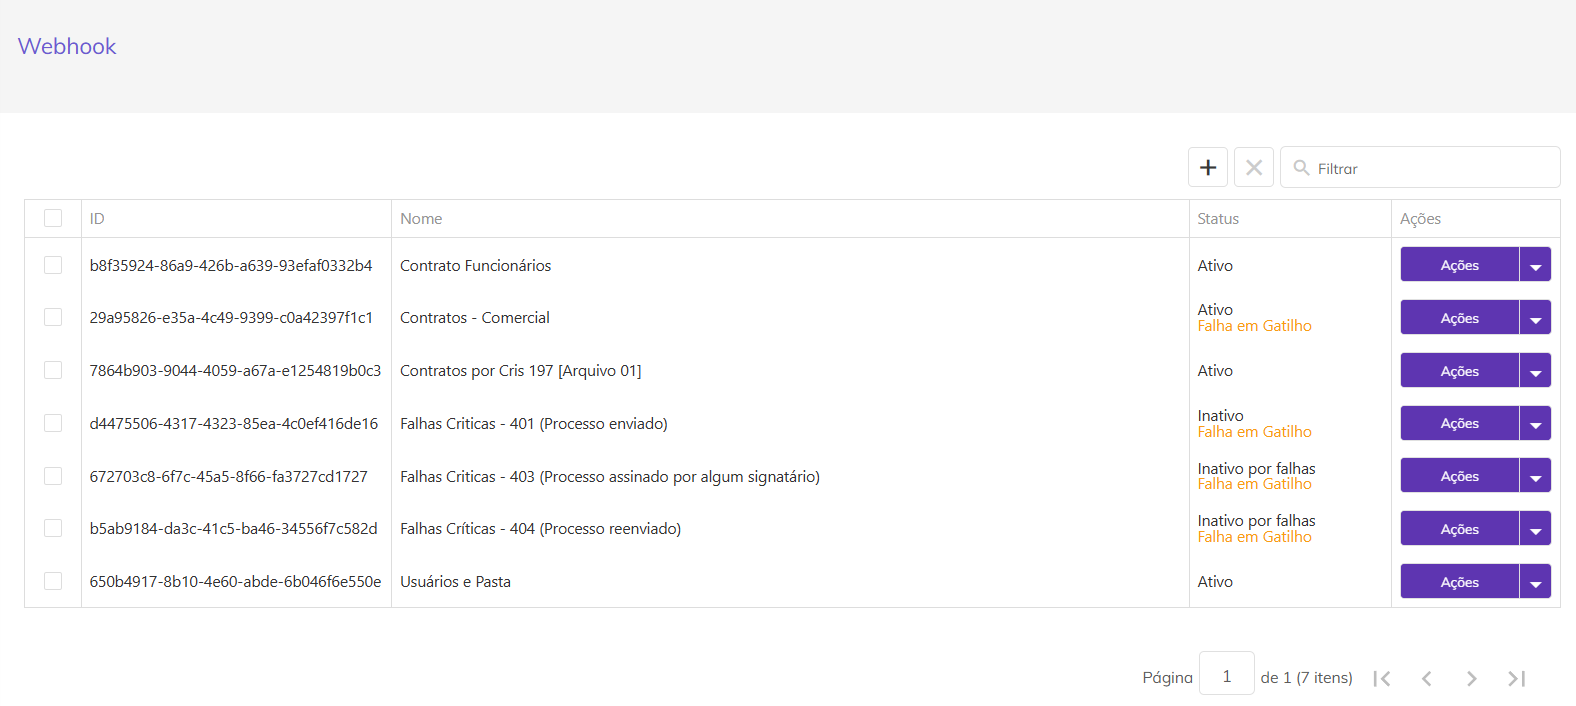
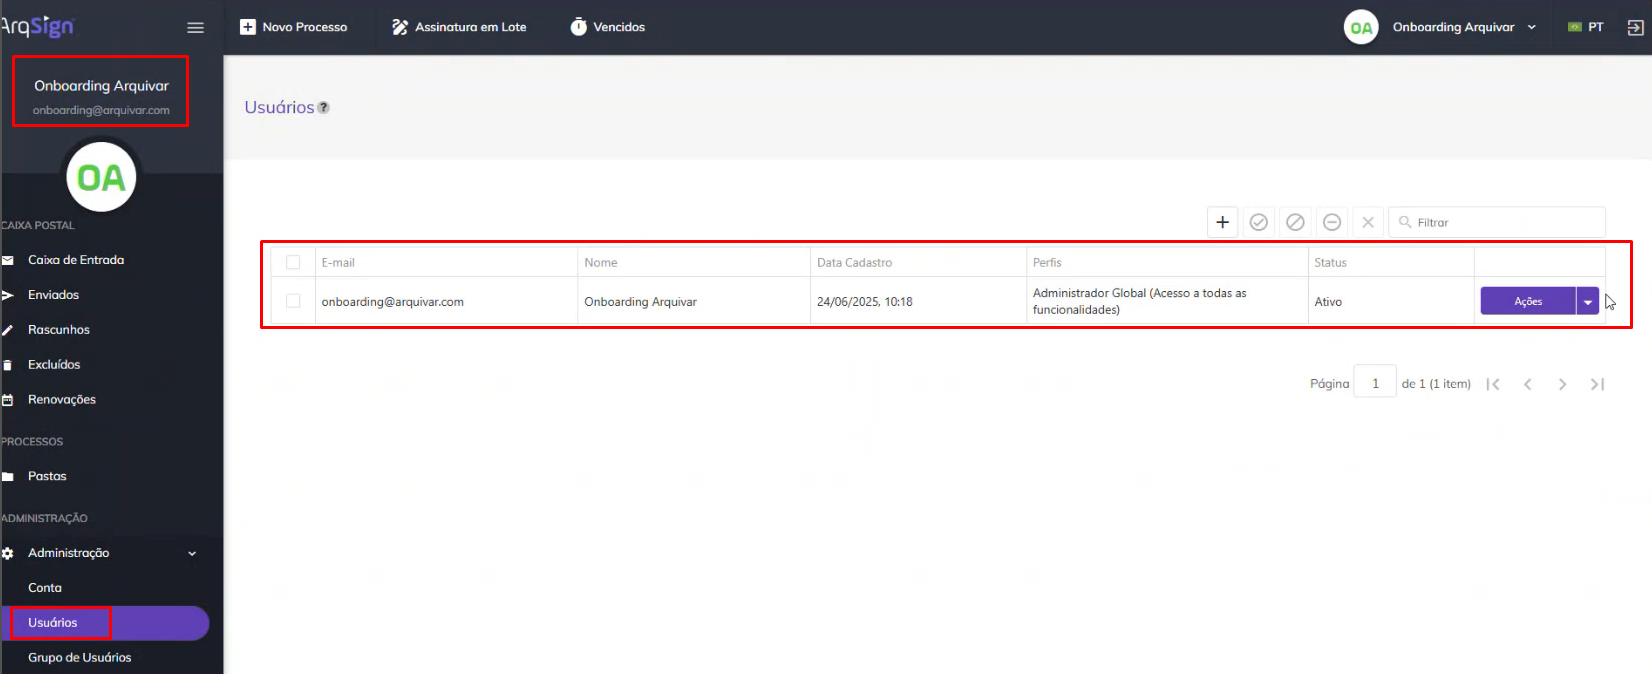
GITBOOK-849: No subject

diff --git a/arqsign/administracao-administracao/usuarios.md b/arqsign/administracao-administracao/usuarios.md
@@ -19,7 +19,15 @@ Após a inserção de um novo usuário pelo Administrador Global, o convidado re
 <figure><img src="https://manual.arquivar.com/manual-arqsign/~gitbook/image?url=https%3A%2F%2Fcontent.gitbook.com%2Fcontent%2FNkvKZtdmOiilgqExqFNO%2Fblobs%2FkC3Nj6BJOieJYyhxl3iH%2FScreenshot_10.png&#x26;width=768&#x26;dpr=4&#x26;quality=100&#x26;sign=f7b28085&#x26;sv=2" alt=""><figcaption></figcaption></figure>
 
 {% hint style="info" %}
-<mark style="color:blue;">Para que as notificações exibam o nome do cliente como remetente, informe o nome da empresa no campo “Nome” ao cadastrar o usuário. Utilize também um e-mail válido para identificação do processo e recebimento das notificações durante a tramitação do documento.</mark>
+<mark style="color:blue;">Para que as notificações exibam o nome do cliente como remetente, é necessário informar o nome da empresa no campo “Nome” ao cadastrar o usuário.</mark>&#x20;
+
+<p align="center"><img src="../../.gitbook/assets/image (388).png" alt="" data-size="original"></p>
+
+
+
+
+
+<mark style="color:blue;">Utilize também um e-mail válido para identificação do processo e recebimento das notificações durante a tramitação do documento.</mark>
 
 <p align="center"><img src="https://manual.arquivar.com/guia-do-cliente/~gitbook/image?url=https%3A%2F%2F1023047207-files.gitbook.io%2F%7E%2Ffiles%2Fv0%2Fb%2Fgitbook-x-prod.appspot.com%2Fo%2Fspaces%252FtM1xGMYoU6wC7tnUUXEo%252Fuploads%252FitPIeAEzbsUI8leVGCM6%252Fimage.png%3Falt%3Dmedia%26token%3D5cf5f545-c984-4918-8e51-fd0865cf5b45&#x26;width=300&#x26;dpr=3&#x26;quality=100&#x26;sign=33294e76&#x26;sv=2" alt=""></p>
 {% endhint %}
